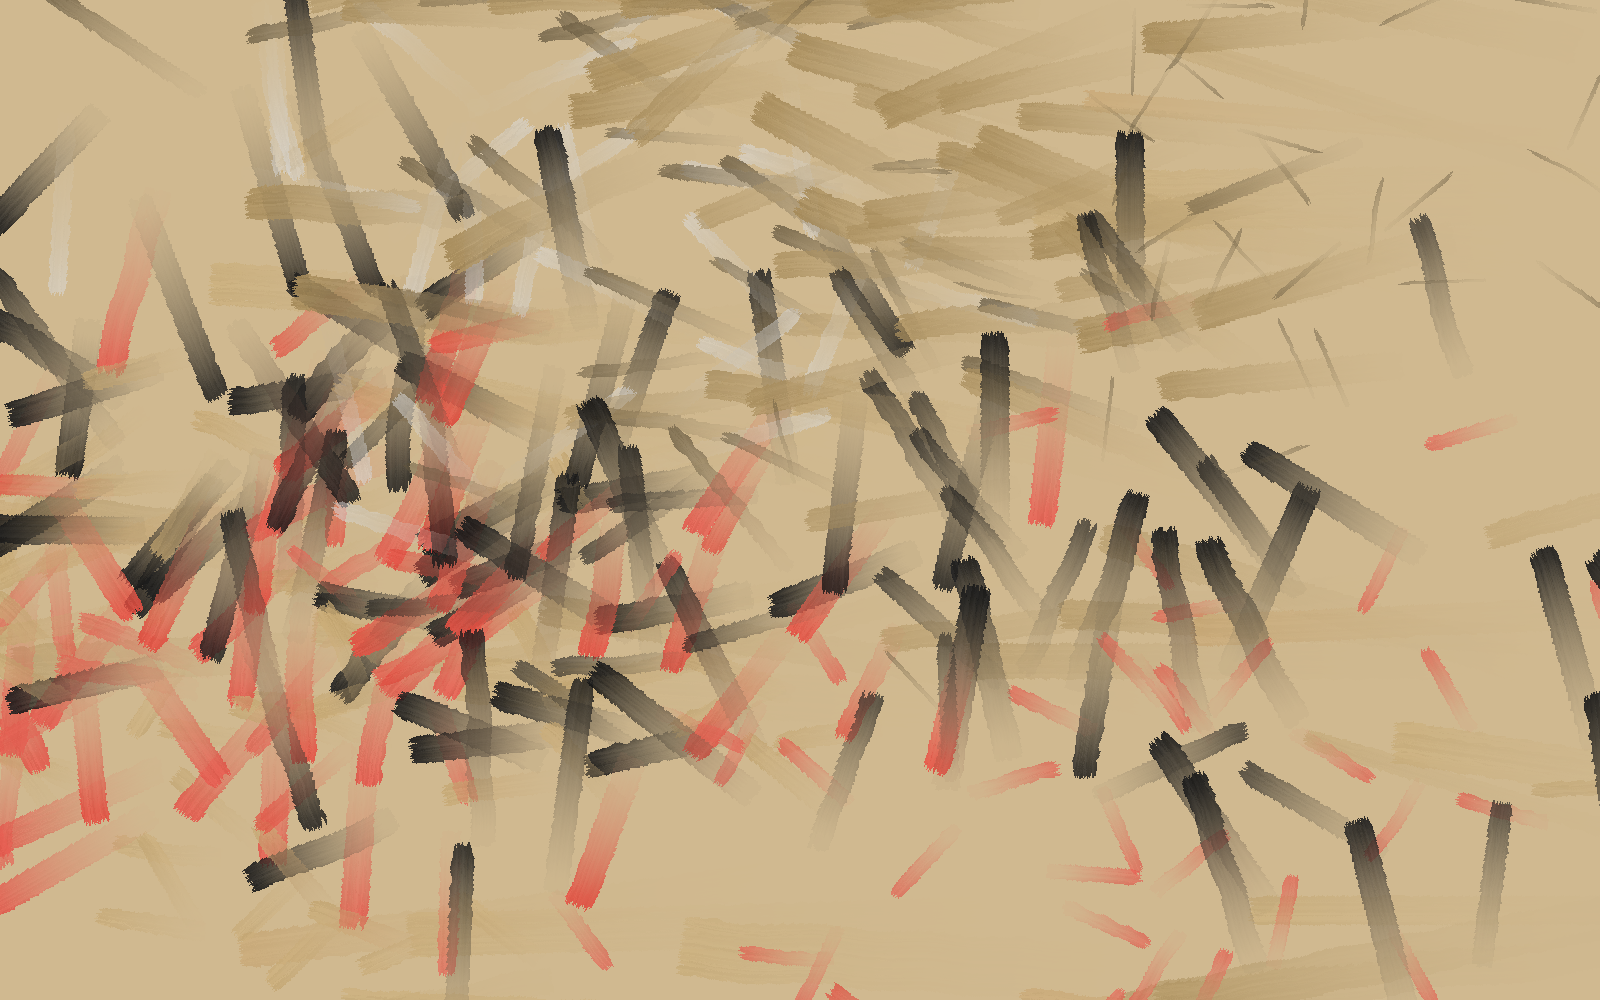
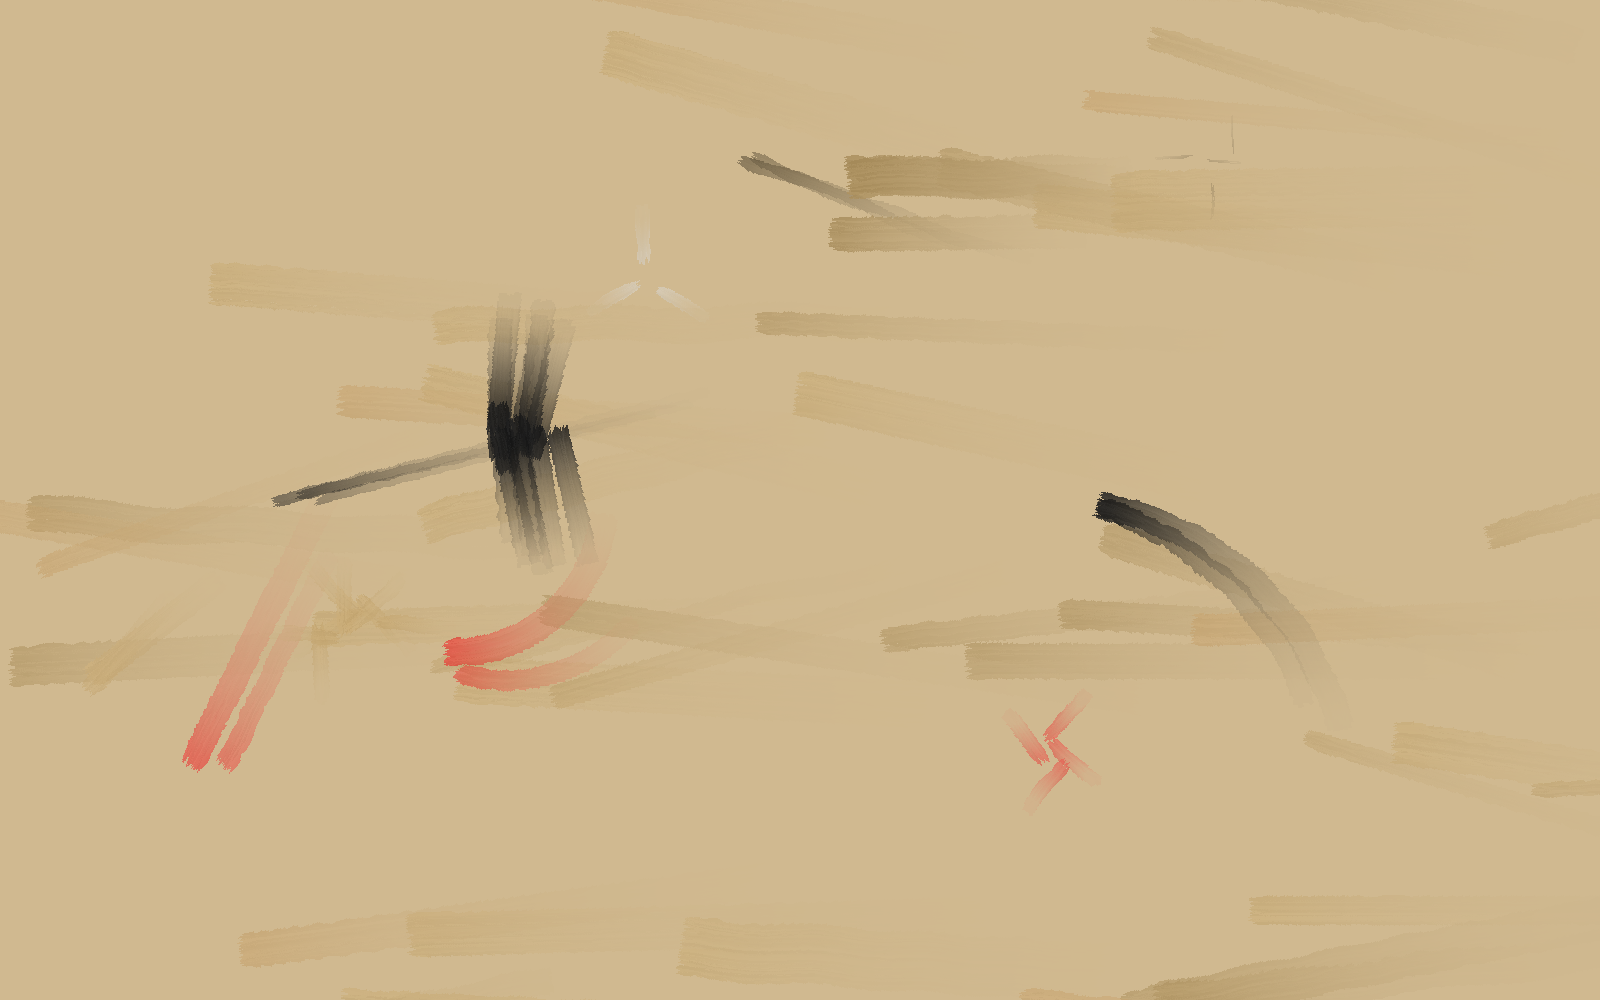
v3: vocabolario pittorico distinto per tecnica — leggibilità musicale
Ogni tecnica ora produce il suo segno pittorico UNICO, fedele all'algoritmo:
- staccato:   2 pennellate bold diagonali corte (~-35°) — colpo netto
- legato:     2 strokes lunghe fluide verso nota successiva
- slide:      3 linee sottili quasi-orizzontali parallele (∓20px Y)
- hammer_on:  8 segni corti a raggiera stretta — cluster "botta"
- bend:       2 archi verso l'alto (ang_vel=-π/190 → 90° curva)
- vibrato:    12 stroke corte alternanti su/giù con X-offset progressivo
- powerchord: 3 strokes bold orizzontali impilate (±28px Y)
- tapping:    4 raggi a 45°/135°/225°/315° — X mark
- dive:       2 archi verso il basso (ang_vel=+π/377 → 70° curva)
- harmonic:   3/4 segni eterei radiali, molto trasparenti

Aggiunte strutturali:
- Trace.__init__: parametro ang_vel (rotazione angolare per step → archi reali)
- _paint_one: passa ang_vel a Trace
- _build_traces: ritorna 6-tuple (n, ang, sm, asc, ang_vel, (dx,dy))
- paint_riff: jitter σ=15px (era 250px) — segni rimangono alla pos. musicale

https://claude.ai/code/session_01YHYaY3hzsgVUD5dcHi8sfs

diff --git a/zorn_riff_art_v3.py b/zorn_riff_art_v3.py
@@ -238,19 +238,21 @@ class Trace:
                  init_pos: np.ndarray,
                  note_color: Tuple[int, int, int],
                  velocity: str,
-                 preferred_ang: Optional[float] = None):
+                 preferred_ang: Optional[float] = None,
+                 ang_vel: float = 0.0):
         self.brush      = brush
         self.n_steps    = max(Brush.N_AVG + 10, n_steps)   # MINIMO sempre sopra warmup
         self.note_color = note_color
         self.colors: Optional[List[List[Tuple]]] = None
 
-        # ── Traiettoria: random walk angolare attorno a preferred_ang ──────
+        # ── Traiettoria: random walk angolare (ang_vel≠0 → arco/curva) ──────
         seed = random.uniform(0, 1000)
         ang  = preferred_ang if preferred_ang is not None \
             else random.gauss(0.0, math.pi / 3)   # bias verso destra
         pos  = init_pos.copy()
         self.positions = [pos.copy()]
         for s in range(1, self.n_steps):
+            ang  += ang_vel   # rotazione progressiva → 0 = dritto, ≠0 = arco
             drift = self.NOISE_AMP * math.pi * (_snoise(seed + self.NOISE_F * s) - 0.5)
             a     = ang + drift
             pos   = pos + np.array([self.SPEED * math.cos(a),
@@ -368,9 +370,11 @@ class ZornRiffBristlePainting:
     def _paint_one(self, pos: np.ndarray, size: float, n_steps: int,
                    color: Tuple, velocity: str,
                    ang: Optional[float] = None,
-                   alpha_scale: float = 1.0):
+                   alpha_scale: float = 1.0,
+                   ang_vel: float = 0.0):
         brush = self._make_brush(pos, size)
-        trace = Trace(brush, n_steps, pos, color, velocity, preferred_ang=ang)
+        trace = Trace(brush, n_steps, pos, color, velocity,
+                      preferred_ang=ang, ang_vel=ang_vel)
         if alpha_scale != 1.0:
             trace.alphas = [int(a * alpha_scale) for a in trace.alphas]
         trace.calculate_colors(self.arr)
@@ -402,89 +406,122 @@ class ZornRiffBristlePainting:
 
     # ── mapping tecnica → elenco pennellate ───────────────────────────────
     def _build_traces(self, note: Dict, notes: List[Dict], idx: int
-                      ) -> List[Tuple[int, Optional[float], float, float]]:
+                      ) -> List[Tuple]:
         """
-        Ritorna lista di (n_steps, angle, size_mult, alpha_scale).
-        n_steps è SEMPRE ≥ 80 (era il bug principale nella versione precedente).
-        Ogni nota produce 20-35 tracce per densità pittorica reale.
+        Ritorna lista di 6-tuple:
+          (n_steps, angle, size_mult, alpha_scale, ang_vel, (dx, dy))
+
+        Ogni tecnica ha il suo segno pittorico DISTINTO — pochi segni ma leggibili.
+        ang_vel≠0 crea archi (bend=curva verso su, dive=curva verso giù).
+        (dx, dy) = offset fisso dal centro nota (per pennellate parallele e cluster).
         """
-        tech    = note['technique']
-        dur     = note['duration']
-        base_sz = self._vel_to_size(note['velocity'])
+        tech = note['technique']
+        dur  = note['duration']
 
-        # Pennellate MEDIE: 50-100 step × SPEED=2.5 → 125-250 px (più drammatiche)
-        n_st = max(50, int(50 + dur * 50))   # 50..100 step → 125..250 px
-        _N   = 2                              # moltiplicatore densità (2× tracce per nota)
-
-        # Angolo verso nota successiva
+        # Angolo verso nota successiva (usato da legato)
         nxt = notes[idx + 1] if idx + 1 < len(notes) else None
-        if nxt:
-            ang_next = math.atan2(nxt['y_pos'] - note['y_pos'],
-                                  nxt['x_pos'] - note['x_pos'])
-        else:
-            ang_next = 0.0
+        ang_next = (math.atan2(nxt['y_pos'] - note['y_pos'],
+                               nxt['x_pos'] - note['x_pos'])
+                    if nxt else 0.0)
 
-        # ── helpers ───────────────────────────────────────────────────────
-        def directed(n: int, primary: float, spread: float,
-                     sm: float = 1.0, asc: float = 1.0, st_mult: float = 1.0):
-            """N*_N tracce che scorrono nella direzione primary ± spread gaussiano.
-            Produce FLOW direzionale (non esplosione radiale)."""
-            n_actual = max(1, n * _N)
-            return [(max(35, int(n_st * st_mult)),
-                     primary + random.gauss(0, spread),
-                     sm, asc)
-                    for _ in range(n_actual)]
+        g = lambda mu=0.0, s=0.12: random.gauss(mu, s)  # shortcut gaussiano
 
-        def burst(n_per_ray: int, angles_deg: List[float],
-                  sm: float = 0.5, asc: float = 0.75, st_mult: float = 0.45):
-            """Burst radiale per tecniche a irradiazione (tapping, harmonics)."""
-            return [t for a in angles_deg
-                    for t in directed(n_per_ray, math.radians(a),
-                                      math.pi / 12, sm, asc, st_mult)]
-
-        # ── tecniche ──────────────────────────────────────────────────────
         if tech == 'staccato':
-            return directed(14, 0.0, math.pi / 4, 0.9, 0.88, 0.55)
+            # 2 pennellate bold, corte, diagonali (~-35°) — colpo netto e secco
+            return [
+                (65, math.radians(-35) + g(), 1.20, 0.95, 0.0, (0,    0)),
+                (50, math.radians(-35) + g(), 0.90, 0.78, 0.0, (g(0,12), g(0,8))),
+            ]
 
         elif tech == 'legato':
-            return (directed(10, ang_next, math.pi / 8, 1.0, 1.00)
-                    + directed(6,  ang_next, math.pi / 5, 0.7, 0.75, 0.75))
+            # 2 pennellate lunghe fluide verso la nota successiva
+            return [
+                (130, ang_next + g(0, 0.08), 0.88, 0.90, 0.0, (0,    0)),
+                (100, ang_next + g(0, 0.10), 0.68, 0.72, 0.0, (g(0,18), g(0,10))),
+            ]
 
         elif tech == 'slide':
-            return directed(14, math.radians(-20), math.pi / 8, 1.0, 1.00)
-
-        elif tech == 'bend':
-            return (directed(9,  math.radians(-65), math.pi / 7, 1.0, 1.00)
-                    + directed(6,  math.radians(-45), math.pi / 6, 0.7, 0.80, 0.8))
-
-        elif tech == 'vibrato':
-            return (directed(8,  math.radians(88),  math.pi / 8, 0.85, 0.90)
-                    + directed(8,  math.radians(-88), math.pi / 8, 0.85, 0.90)
-                    + directed(4,  0.0,               math.pi / 5, 0.60, 0.65, 0.7))
+            # 3 linee sottili lunghe quasi-orizzontali, leggermente diagonali (−15°)
+            # Separazione verticale ~20px → tre parallele visibili
+            return [
+                (200, math.radians(-15) + g(0, 0.04), 0.32, 0.52, 0.0, (0, -20)),
+                (185, math.radians(-15) + g(0, 0.04), 0.28, 0.44, 0.0, (0,   0)),
+                (165, math.radians(-15) + g(0, 0.04), 0.25, 0.36, 0.0, (0, +20)),
+            ]
 
         elif tech == 'hammer_on':
-            return directed(14, 0.0, math.pi / 5, 1.0, 0.90, 0.60)
+            # 8 segni corti e densi a raggiera stretta — "botta" sul tasto
+            r = 14.0
+            return [
+                (28, math.radians(a) + g(0, 0.08), 0.62, 0.88, 0.0,
+                 (r * math.cos(math.radians(a)), r * math.sin(math.radians(a))))
+                for a in [0, 45, 90, 135, 180, 225, 270, 315]
+            ]
+
+        elif tech == 'bend':
+            # 2 archi verso l'alto: partono orizzontali, curvano a −90° (corda tirata)
+            n = 95
+            av = -math.pi / (2.0 * n)   # 90° totali in n passi
+            return [
+                (n,      math.radians(0) + g(0, 0.06), 1.02, 0.93, av,      (0,  0)),
+                (n - 15, math.radians(8) + g(0, 0.06), 0.75, 0.72, av * 0.9, (8, 8)),
+            ]
+
+        elif tech == 'vibrato':
+            # 6 pennellate corte alternanti su/giù, con offset X progressivo
+            # → visivamente: oscillazione orizzontale della nota
+            return [
+                (55, math.radians(-82) + g(0, 0.05), 0.80, 0.88, 0.0, (dx,  0))
+                for dx in [0, 0, 18, 18, 36, 36]
+            ] + [
+                (55, math.radians(+82) + g(0, 0.05), 0.80, 0.88, 0.0, (dx,  0))
+                for dx in [0, 18, 18, 36, 36, 54]
+            ]
 
         elif tech == 'powerchord':
-            return (directed(9,  0.0, math.pi / 10, 1.3, 1.00, 1.10)
-                    + directed(7,  0.0, math.pi / 8,  1.0, 0.82, 1.00)
-                    + directed(5,  0.0, math.pi / 7,  0.8, 0.62, 0.90))
+            # 3 pennellate bold orizzontali impilate verticalmente (tre corde)
+            return [
+                (115, math.radians(0) + g(0, 0.05), 1.45, 0.95, 0.0, (0, -28)),
+                (115, math.radians(0) + g(0, 0.05), 1.45, 0.95, 0.0, (0,   0)),
+                (105, math.radians(0) + g(0, 0.05), 1.30, 0.88, 0.0, (0, +28)),
+            ]
 
         elif tech == 'tapping':
-            return burst(3, [0, 60, 120, 180, 240, 300], 0.62, 0.82, 0.44)
+            # 4 raggi corti a 45° (X mark) — le dita che colpiscono il tasto
+            return [
+                (22, math.radians(a) + g(0, 0.10), 0.58, 0.82, 0.0, (0, 0))
+                for a in [45, 135, 225, 315]
+            ]
 
         elif tech == 'dive':
-            return (directed(10, math.radians(72), math.pi / 7, 1.0, 1.00, 1.1)
-                    + directed(7,  math.radians(80), math.pi / 6, 0.7, 0.70, 0.9))
+            # 2 archi verso il basso: partono orizzontali, curvano a +70° (whammy bar)
+            n = 145
+            av = math.pi / (2.6 * n)   # ~70° totali
+            return [
+                (n,      math.radians(10) + g(0, 0.06), 0.98, 0.90, av,      (0,  0)),
+                (n - 20, math.radians(18) + g(0, 0.06), 0.72, 0.72, av * 0.9, (7,  6)),
+            ]
 
         elif tech == 'harmonic_natural':
-            return burst(5, [30, 150, 270], 0.55, 0.58, 1.0)
+            # 3 segni eterei a 120° — alone luminoso (armonico naturale)
+            r = 22.0
+            return [
+                (20, math.radians(a) + g(0, 0.06), 0.38, 0.50, 0.0,
+                 (r * math.cos(math.radians(a)), r * math.sin(math.radians(a))))
+                for a in [30, 150, 270]
+            ]
 
         elif tech == 'harmonic_artificial':
-            return burst(2, [0, 45, 90, 135, 180, 225, 270, 315], 0.45, 0.78, 0.40)
+            # 4 scintille molto corte a 90° — pinch harmonic aggressivo
+            r = 16.0
+            return [
+                (15, math.radians(a) + g(0, 0.08), 0.32, 0.46, 0.0,
+                 (r * math.cos(math.radians(a)), r * math.sin(math.radians(a))))
+                for a in [0, 90, 180, 270]
+            ]
 
         else:
-            return directed(14, 0.0, math.pi / 4, 1.0, 1.0)
+            return [(65, 0.0, 1.0, 1.0, 0.0, (0, 0))]
 
     # ── riff painting ─────────────────────────────────────────────────────
     def paint_riff(self, notes: List[Dict]):
@@ -497,17 +534,17 @@ class ZornRiffBristlePainting:
             print(f"  [{idx+1:2d}/12] {note['note']} {note['technique']:20s}"
                   f"  {len(traces)} tracce × ~{traces[0][0]} step")
 
-            for n_steps, ang, sm, asc in traces:
+            for n_steps, ang, sm, asc, av, (dx, dy) in traces:
                 size = base_sz * sm
-                # Jitter ampio (σ proporzionale al canvas) → copertura totale.
-                # ~40% delle tracce cadono lontane dalla nota → niente isole.
-                jitter = np.array([random.gauss(0, 250.0),
-                                   random.gauss(0, 175.0)])
-                start = np.clip(center + jitter,
+                # Jitter minimo (σ=15px) → segni rimangono vicini al centro
+                # La posizione musicale è preservata: ogni nota ha il suo luogo.
+                jitter = np.array([random.gauss(0, 15.0),
+                                   random.gauss(0, 15.0)])
+                start = np.clip(center + np.array([dx, dy]) + jitter,
                                 [0.0, 0.0], [float(self.W), float(self.H)])
                 self._paint_one(start, size, n_steps,
                                 color, note['velocity'],
-                                ang=ang, alpha_scale=asc)
+                                ang=ang, alpha_scale=asc, ang_vel=av)
 
     # ── data ──────────────────────────────────────────────────────────────
     def parse_riff(self) -> List[Dict]: